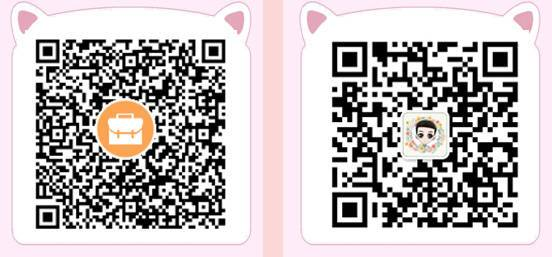
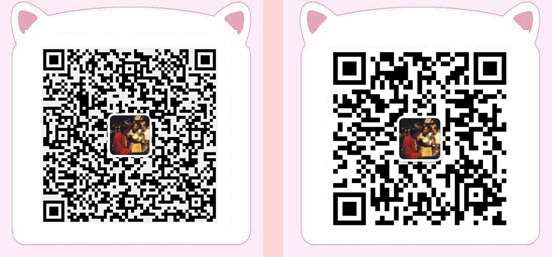
edit

diff --git a/web-vue-element-xmanv-admin/src/utils/env.js b/web-vue-element-xmanv-admin/src/utils/env.js
@@ -1,4 +1,4 @@
-const github = 'https://github.com/wdlhao/vue2-element-touzi-admin';
+const github = 'https://github.com/GTV9527/Vue2-Element-Xmanv-Admin';
 const appUrl = process.env.VUE_APP_URL  // development和production环境是不同的
 const shareUrl = 'https://juejin.im/post/5d0b4d28f265da1baf7cf293'
 const shareTitle = '用Vue-cli3+element+mockjs 实现后台管理权限系统及顶栏三级菜单显示';

diff --git a/web-vue-element-xmanv-admin/src/layout/headNav.vue b/web-vue-element-xmanv-admin/src/layout/headNav.vue
@@ -89,7 +89,7 @@
     import store from "@/store";
     import topMenu from "./topMenu";
     import wechatImg from "@/assets/img/wechat.jpg";
-    import qqImg from "@/assets/img/qq.png";
+    import qqImg from "@/assets/img/qq.jpg";
     import logoImg from "@/assets/img/logo.png";
     import chinaImg from "@/assets/img/china.svg";
     import americaImg from "@/assets/img/america.svg";
